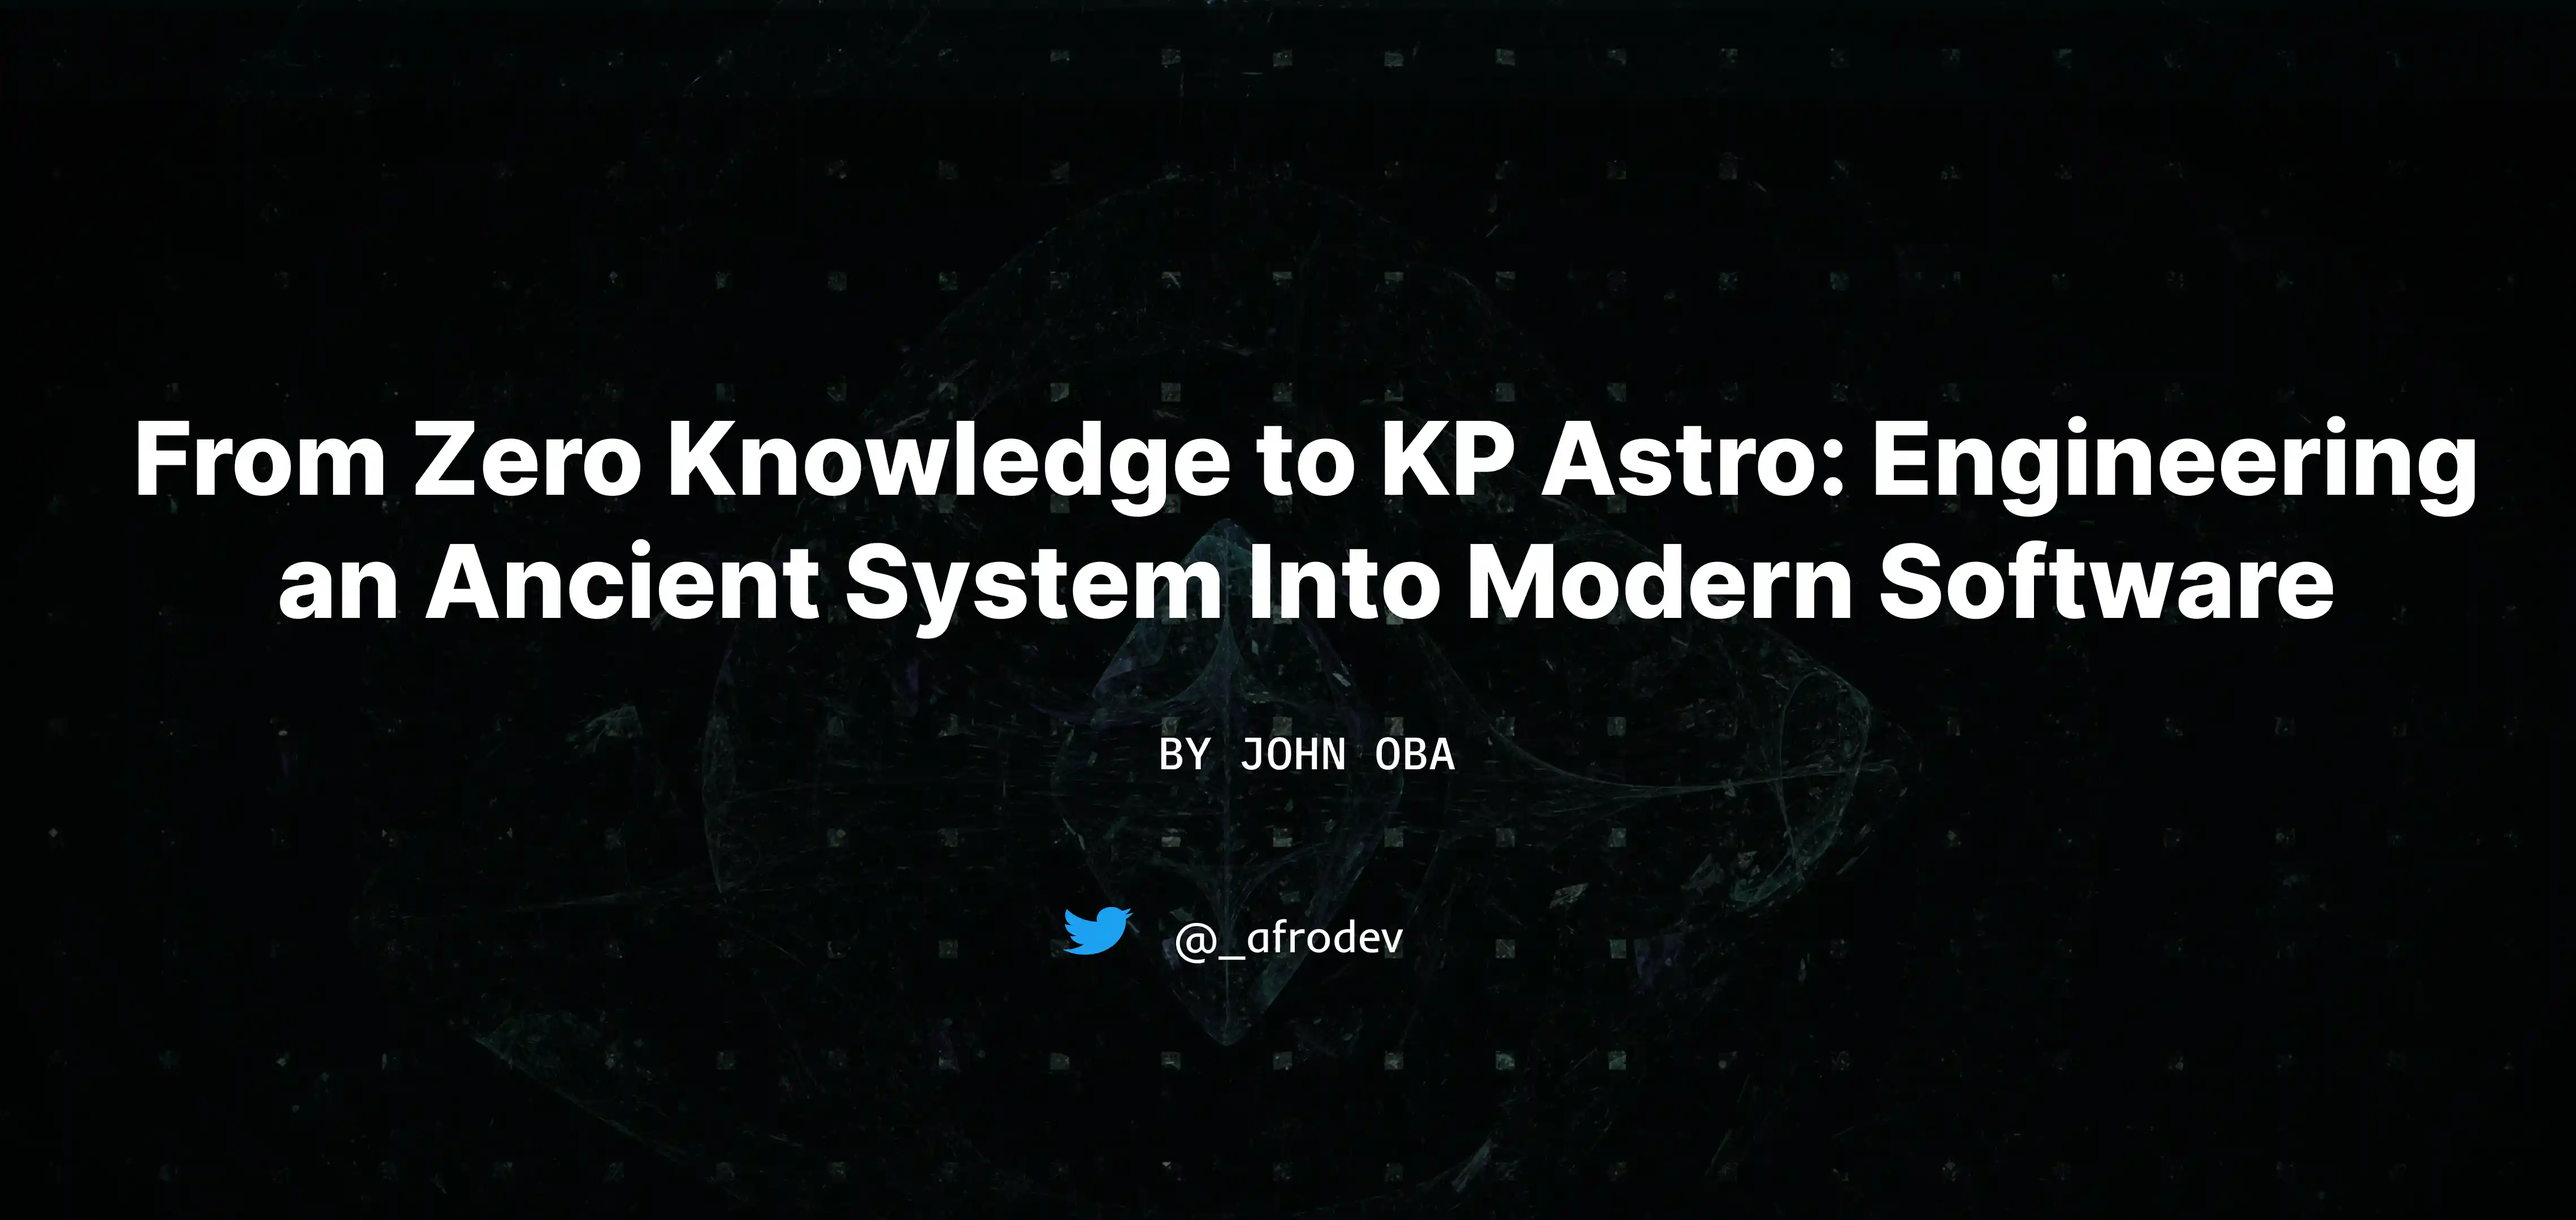
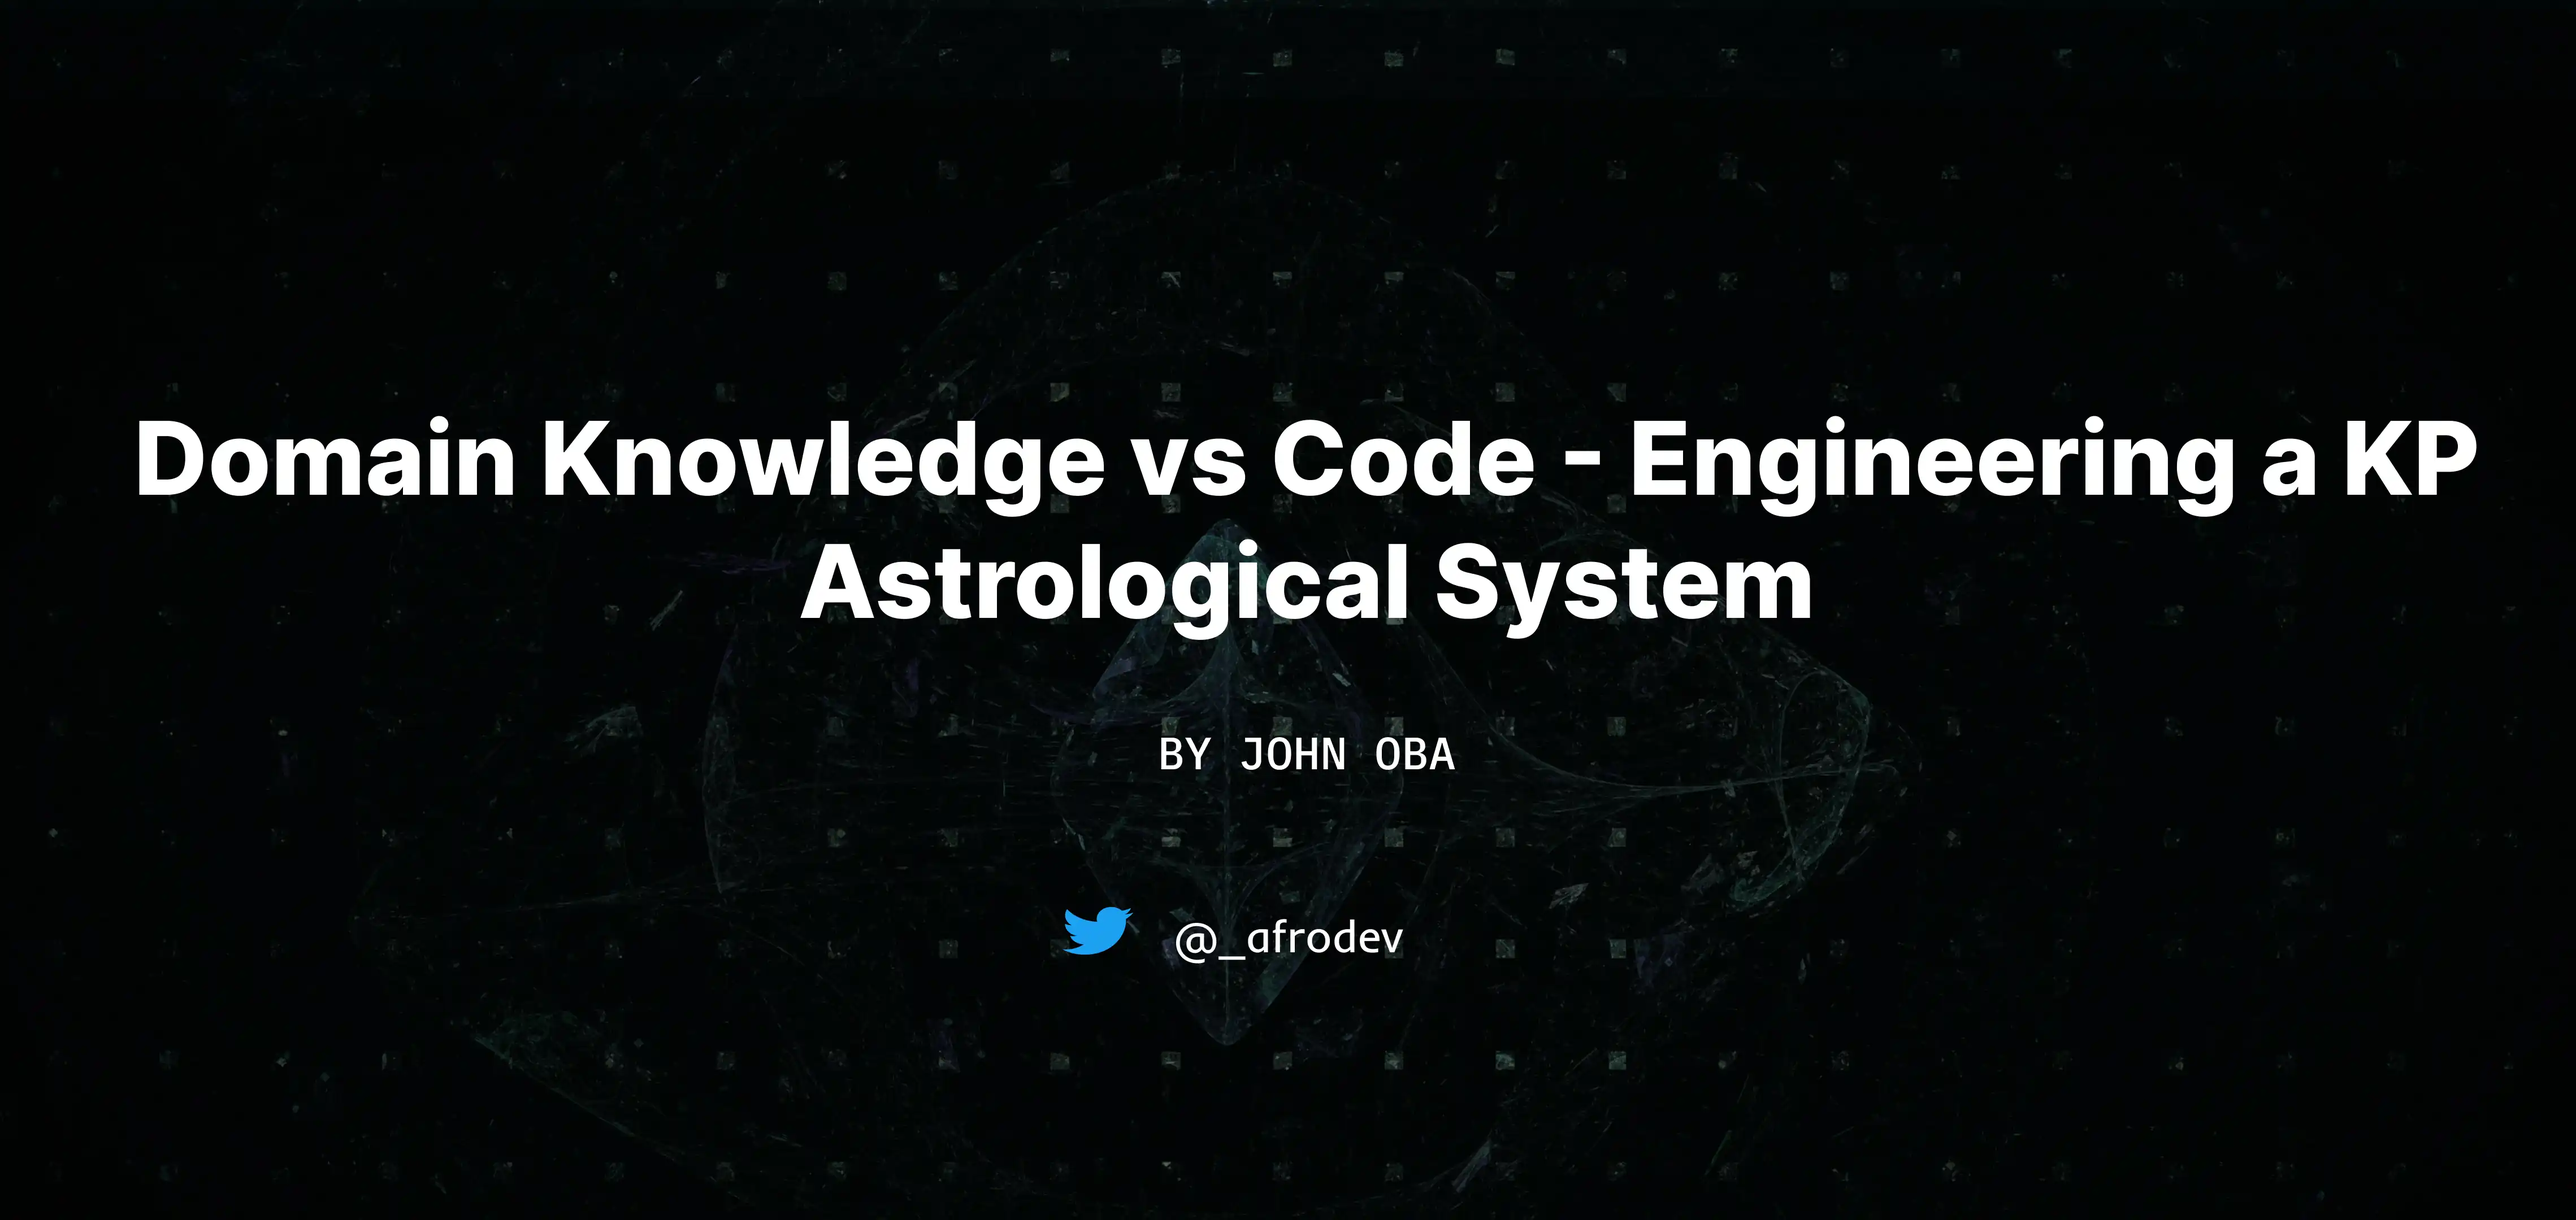
feat: update article title and description for KP Astro, and replace featured image with a new version

Changed region(s): [[0.0623, 0.3412, 0.9658, 0.5273]]

diff --git a/content/17.from-zero-knowledge-to-kp-astro.md b/content/17.from-zero-knowledge-to-kp-astro.md
@@ -1,8 +1,8 @@
 ---
-title: From Zero Knowledge to KP Astro: Engineering an Ancient System Into Modern Software
+title: Domain Knowledge vs Code - Engineering a KP Astrological System
 featured_image: "/images/kp-astro-engineering-ancient-system.webp"
 draft: false
-og_image: https://res.cloudinary.com/dpq6dieap/image/upload/c_scale,q_100,w_532/v1679336331/og-images/deploying-one-contract-address-across-chains_ggkamr.jpg
+og_image: https://res.cloudinary.com/dpq6dieap/image/upload/c_scale,q_100,w_532/v1757581218/og-images/kp-astro-engineering-ancient-system_wvuywe.jpg
 description: "Engineering prowness matters less when domain knowledge is deficient"
 author: John Oba - Afrodev
 date: 13 November, 2024
